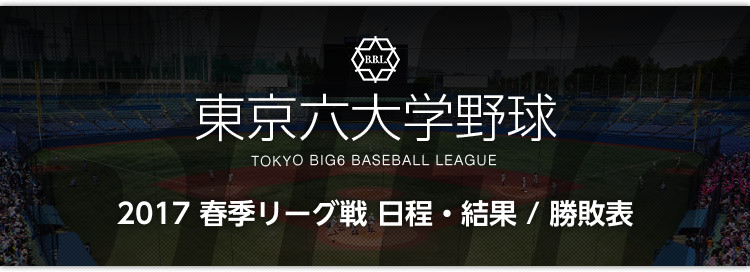
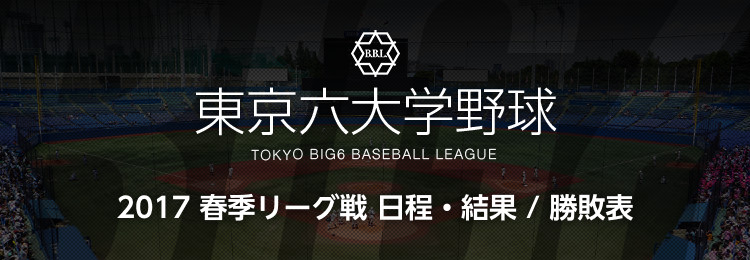
ライブ中継のバナー自動差し替え : 画像を設定 #1657

diff --git a/_src/app/big6/index_sp.html b/_src/app/big6/index_sp.html
@@ -40,7 +40,11 @@
   <div class="body-sec">
     <div class="body-sec-inner">
       <div class="special-summary" style="background-color: #000;">
-        <h1 class="special-summary-heading"><img src="/assets/sp/images/big6/summary-heading.png" alt="response.description"></h1>
+        <h1 class="special-summary-heading"><img src="/assets/sp/images/big6/heading.jpg" alt="東京六大学野球 2017 春季リーグ戦 日程・結果 / 勝敗表"></h1>
+
+        <div class="big6-summary-banner">
+          <a href="/category/big6tv/"><img src="/assets/sp/images/big6/bnr-streaming_playing.png" alt=""></a>
+        </div><!-- /.big6-summary-banner -->
       </div><!-- /.special-summary -->
 
       <section class="main-sec">

diff --git a/_src/app/big6/index.html b/_src/app/big6/index.html
@@ -37,7 +37,7 @@
         <h1 class="big6-summary-heading"><img src="/assets/images/big6/heading.png" alt="東京6大学野球 2017 春季リーグ戦 日程・結果 / 勝敗表"></h1>
 
         <div class="big6-summary-banner">
-          <a href="hoge"><img src="/assets/images/big6/bnr-streaming.png" alt=""></a>
+          <a href="/category/big6tv/"><img src="/assets/images/big6/bnr-streaming_playing.png" alt=""></a>
         </div><!-- /.big6-summary-banner -->
       </div><!-- /.big6-summary -->
 

diff --git a/app/templates/big6tv/mobile/index.php b/app/templates/big6tv/mobile/index.php
@@ -95,7 +95,17 @@
 <div id="body-section" class="body-sec">
   <div class="body-sec-inner">
     <div class="special-summary" style="background-color: #000;">
-      <h1 class="special-summary-heading"><img src="/assets/sp/images/big6/summary-heading.png" alt="response.description"></h1>
+      <h1 class="special-summary-heading"><img src="/assets/sp/images/big6/heading.jpg" alt="東京六大学野球 2017 春季リーグ戦 日程・結果 / 勝敗表"></h1>
+
+      <div class="big6-summary-banner">
+        <a href="/category/big6tv/">
+          <?php if ( $page['big6tv']['liveData']['live']['isPlaying'] ) : ?>
+            <img src="/assets/sp/images/big6/bnr-streaming_playing.png?isPlaying=true" alt="">
+          <?php else : ?>
+            <img src="/assets/sp/images/big6/bnr-streaming_resting.png?isPlaying=false" alt="">
+          <?php endif; ?>
+        </a>
+      </div><!-- /.big6-summary-banner -->
     </div><!-- /.special-summary -->
 
     <section class="main-sec">

diff --git a/app/templates/big6tv/desktop/index.php b/app/templates/big6tv/desktop/index.php
@@ -74,9 +74,9 @@
       <div class="big6-summary-banner">
         <a href="/category/big6tv/">
           <?php if ( $page['big6tv']['liveData']['live']['isPlaying'] ) : ?>
-            <img src="/assets/images/big6/bnr-streaming.png?isPlaying=true" alt="">
+            <img src="/assets/images/big6/bnr-streaming_playing.png?isPlaying=true" alt="">
           <?php else : ?>
-            <img src="/assets/images/big6/bnr-streaming.png?isPlaying=false" alt="">
+            <img src="/assets/images/big6/bnr-streaming_resting.png?isPlaying=false" alt="">
           <?php endif; ?>
         </a>
       </div><!-- /.big6-summary-banner -->
